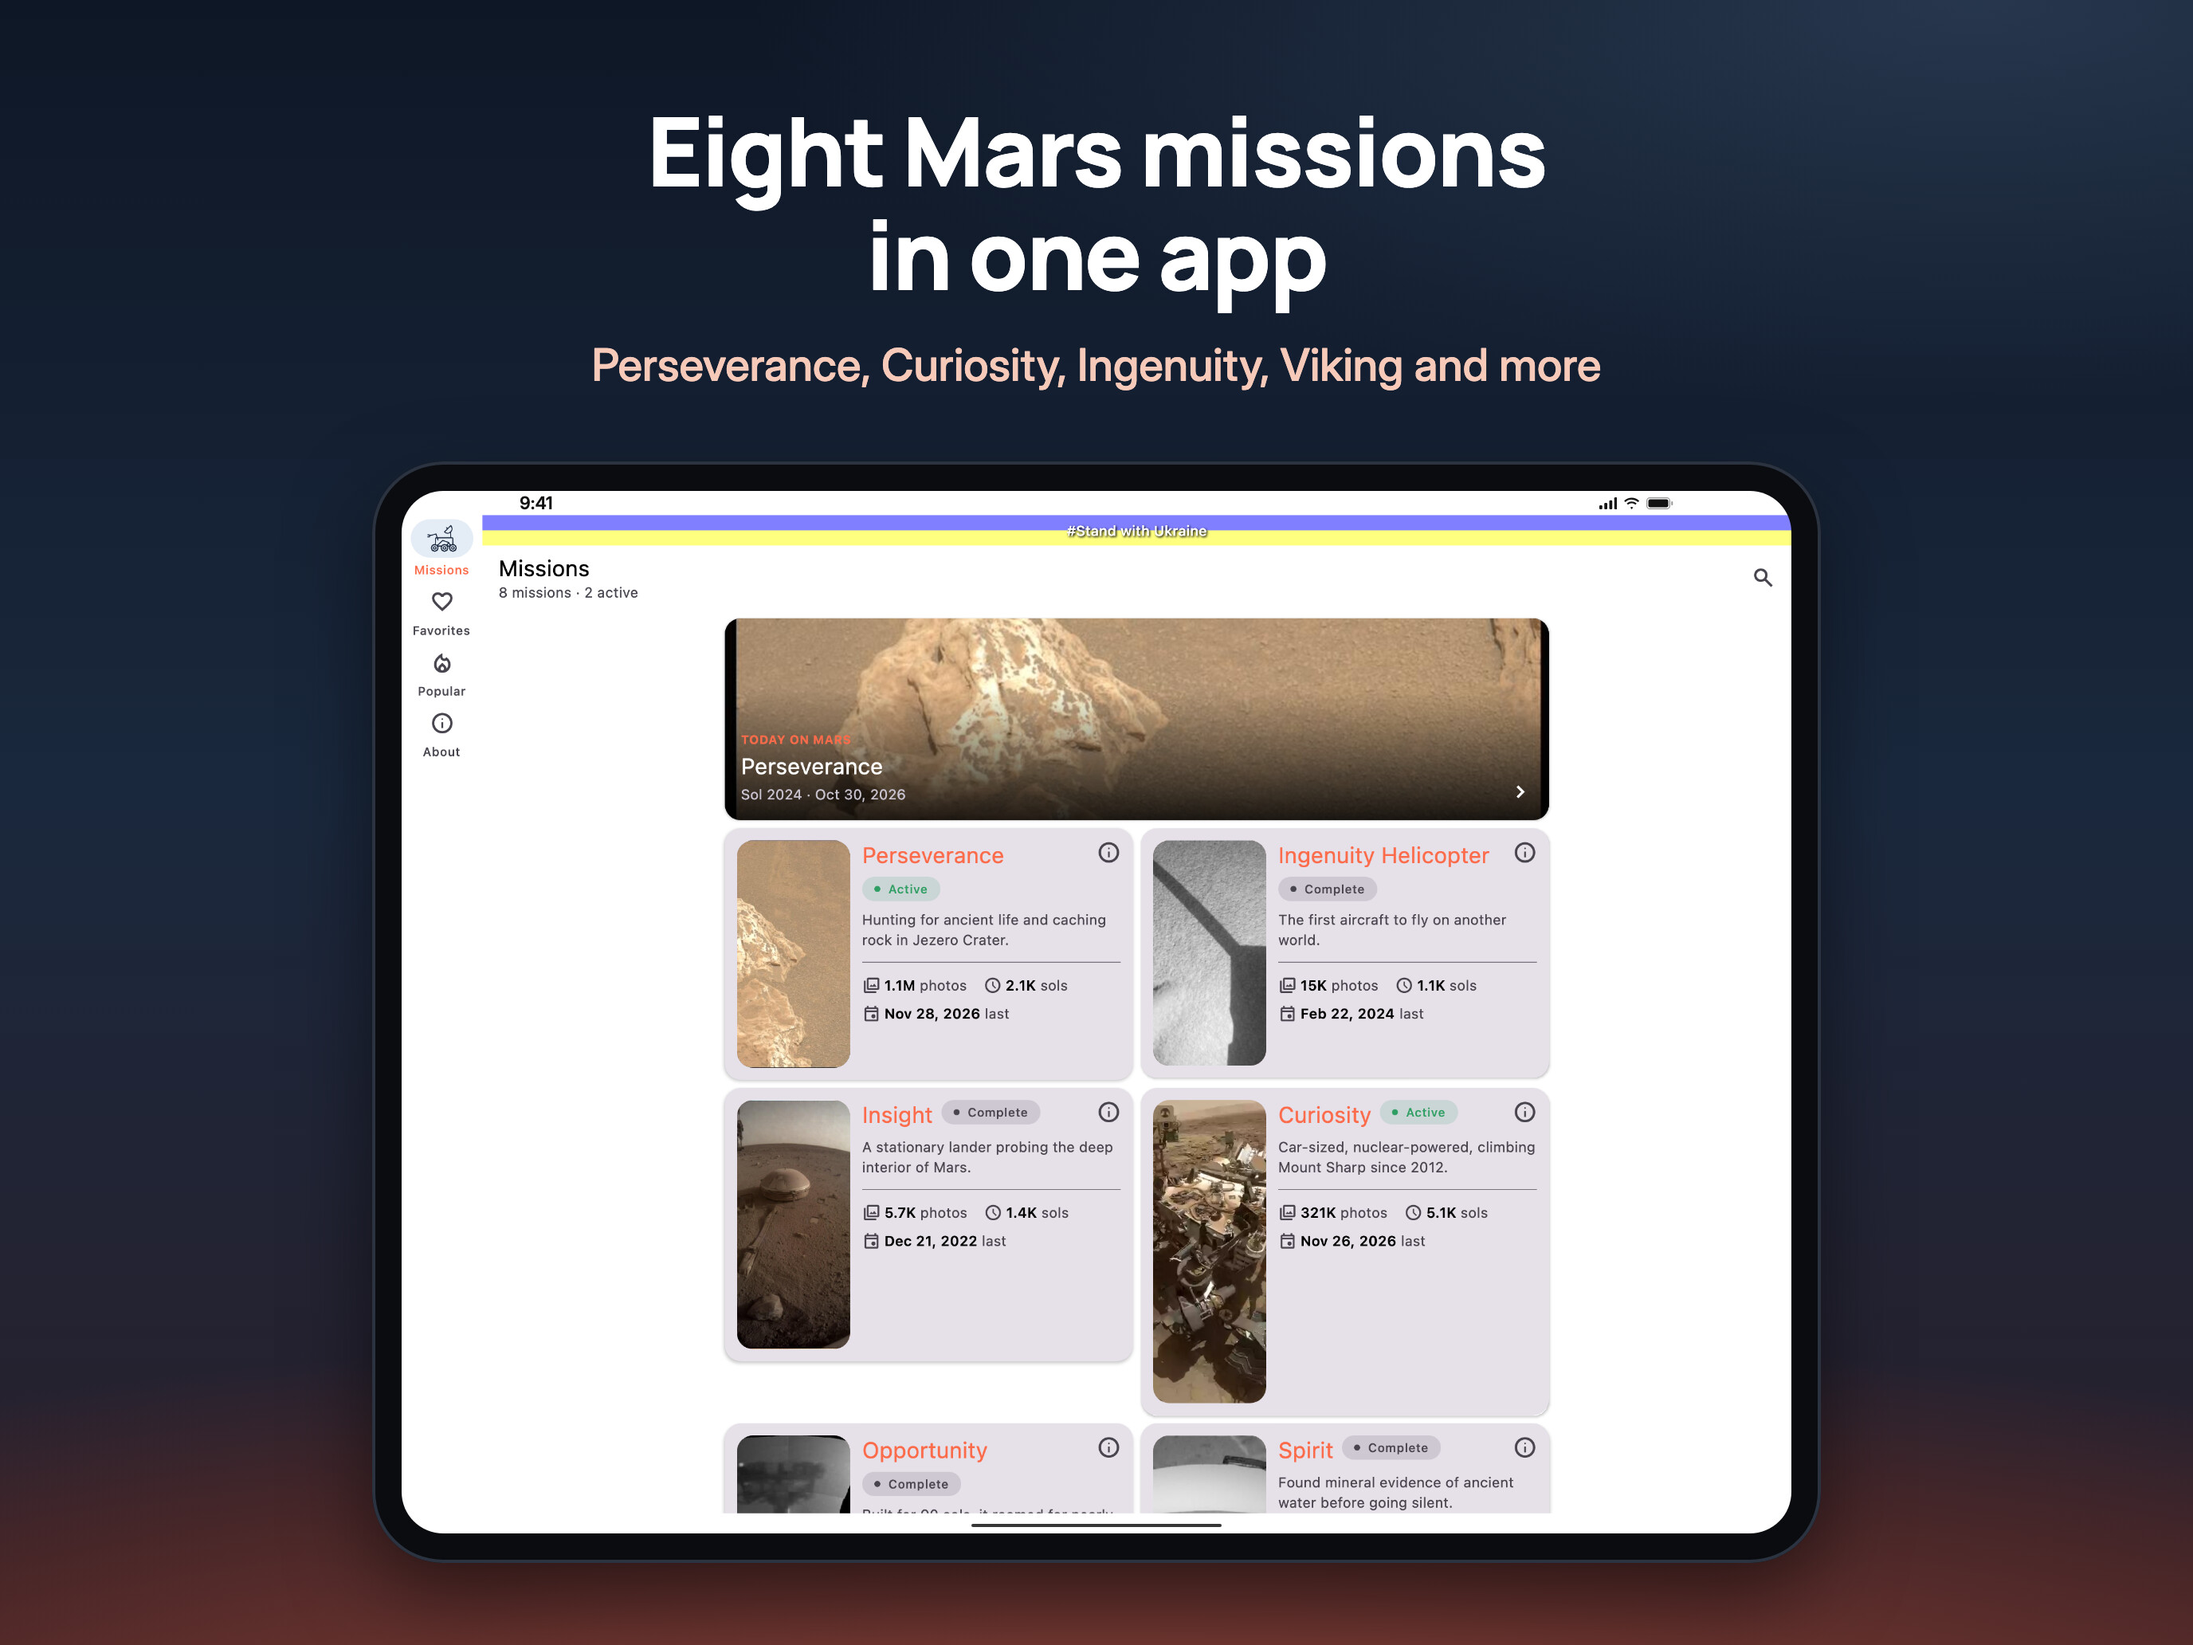
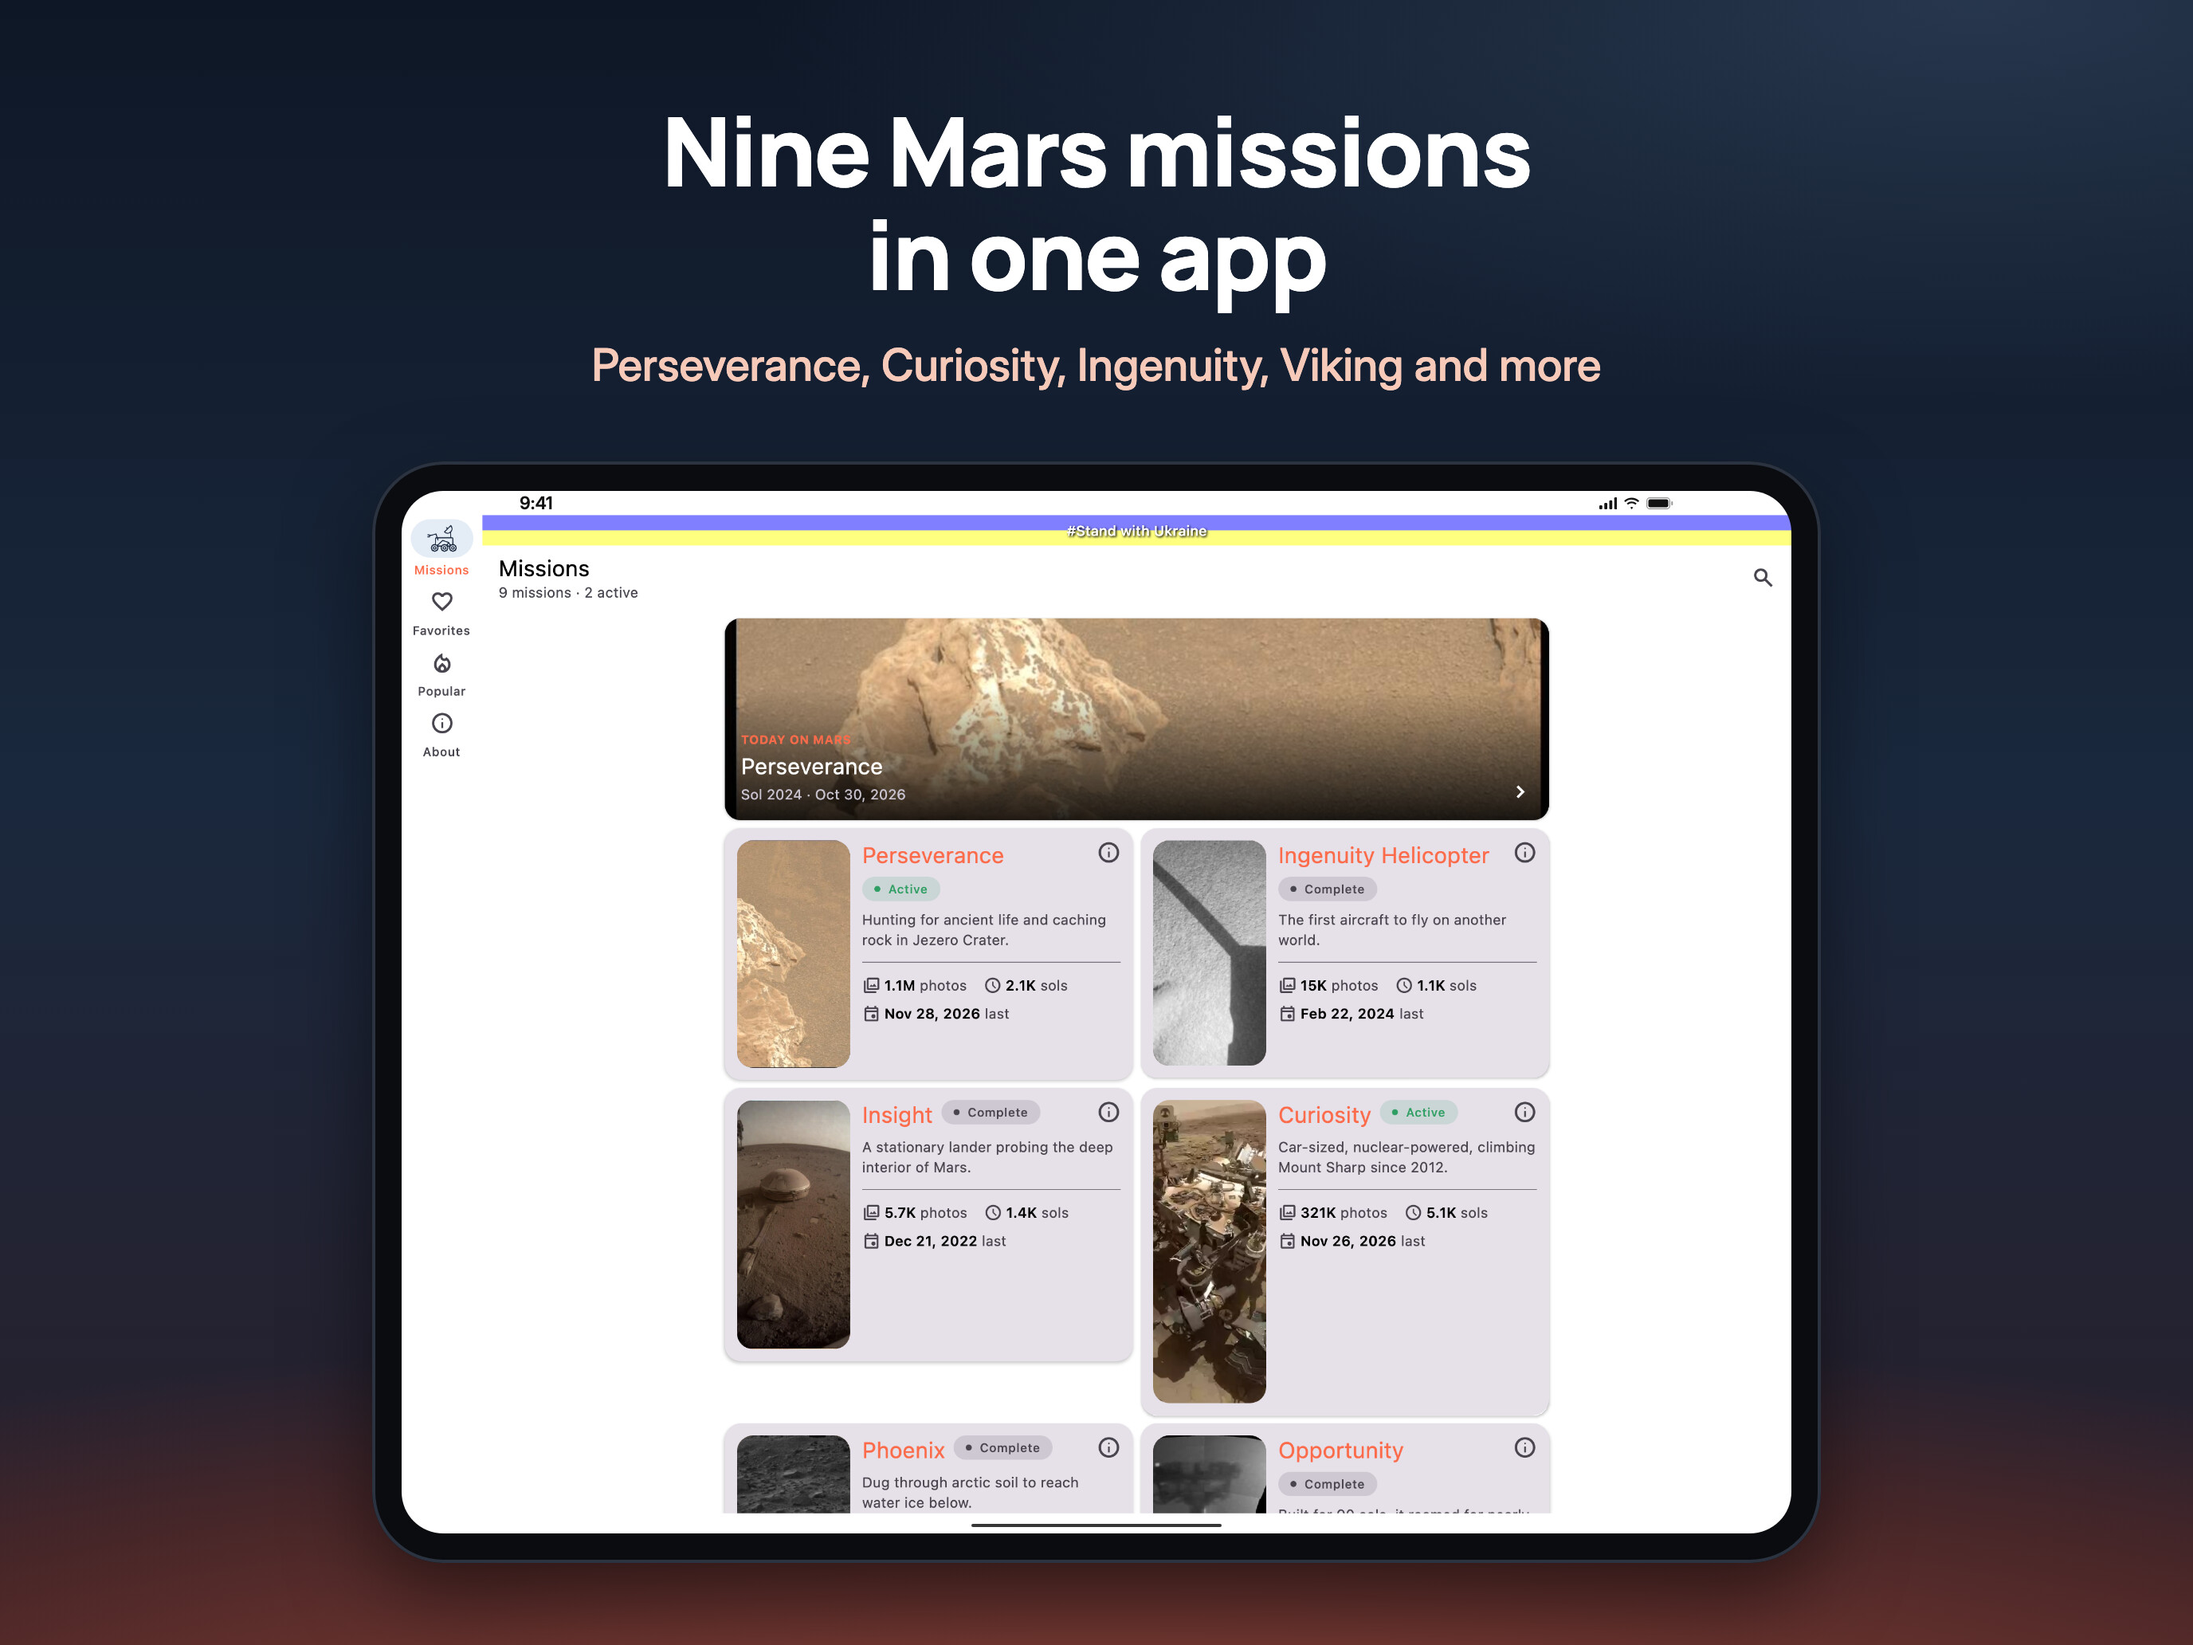
Show nine missions on the App Store screenshots
The Missions slot in the 5.6.0 draft now shows Phoenix and reads
"Nine Mars missions". Play keeps the eight-mission set until the
release that ships Phoenix.

Changed region(s): [[0.2812, 0.062, 0.7188, 0.124], [0.3438, 0.8682, 0.6875, 0.9302]]

diff --git a/.claude/skills/mars-store-screenshots/reference.md b/.claude/skills/mars-store-screenshots/reference.md
@@ -69,5 +69,7 @@ or anything that reads as NASA's product.
 Read it live with `bundle exec ruby store/tools/upload-screenshots.rb status`. After the
 2026-11-28 upload: App Store 5.5.0 READY_FOR_SALE (locked, older set); draft 5.6.0
 PREPARE_FOR_SUBMISSION with en-US `APP_IPHONE_67` (8), `APP_IPHONE_65` (8) and
-`APP_IPAD_PRO_3GEN_129` (7), live with the next release. Play en-US: 8 phone, 7 seven-inch and
-7 ten-inch screenshots, live.
+`APP_IPAD_PRO_3GEN_129` (7), live with the next release; its Missions slot reads "Nine Mars
+missions" (Phoenix). Play en-US: 8 phone, 7 seven-inch and 7 ten-inch screenshots, live; its
+Missions slot still reads "Eight Mars missions", true until Phoenix ships. Once that release is on
+Play, re-render `rovers` for the Android devices and run `play --apply`.
